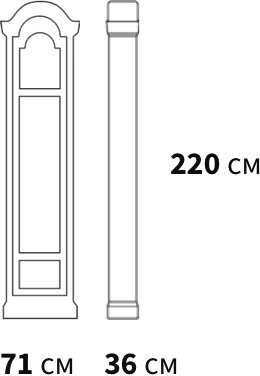
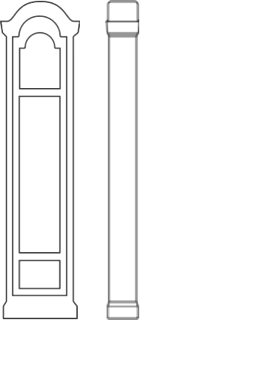
prudct schema xrefactored to text

diff --git a/src/sass/components/product/_scope.sass b/src/sass/components/product/_scope.sass
@@ -216,11 +216,21 @@
     flex-basis: $col4
     max-width: $col4
     text-align: center
+    display: flex
     img
       max-width: 100%
     &--full
       margin-top: 12px
       max-width: $col12
+    &-image-container
+      margin-left: auto
+      margin-right: auto
+      position: relative
+      font-size: 0
+    &-text
+      font-size: 16px
+      position: absolute
+
 
 
 @media only screen and (max-width: 1279px) and (min-width: 993px)
